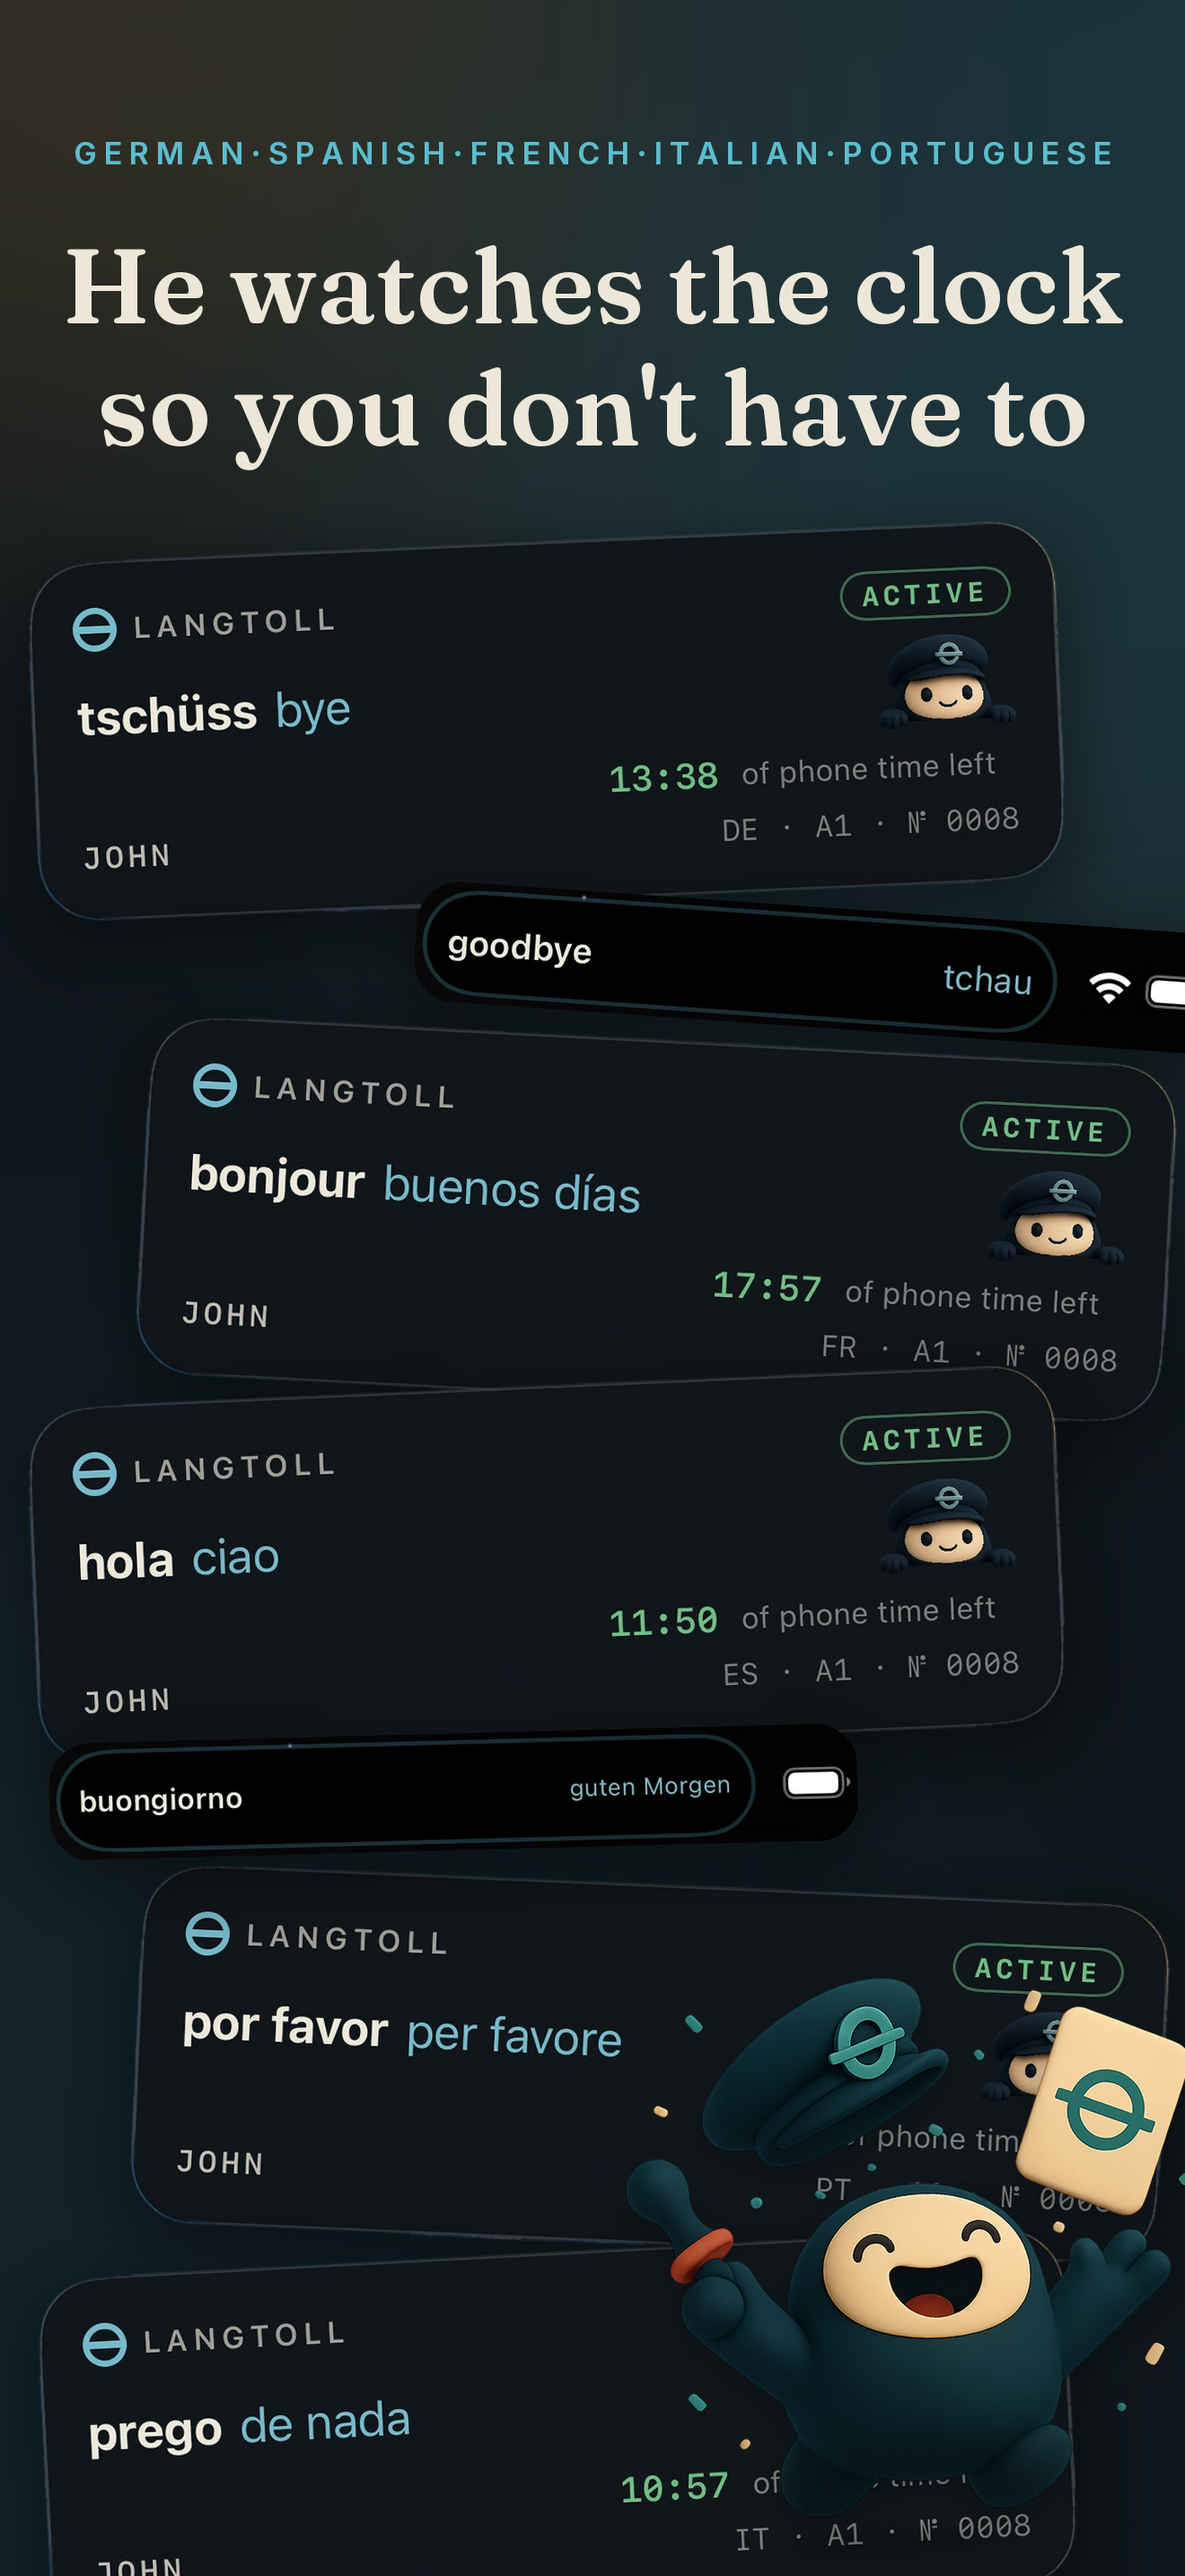
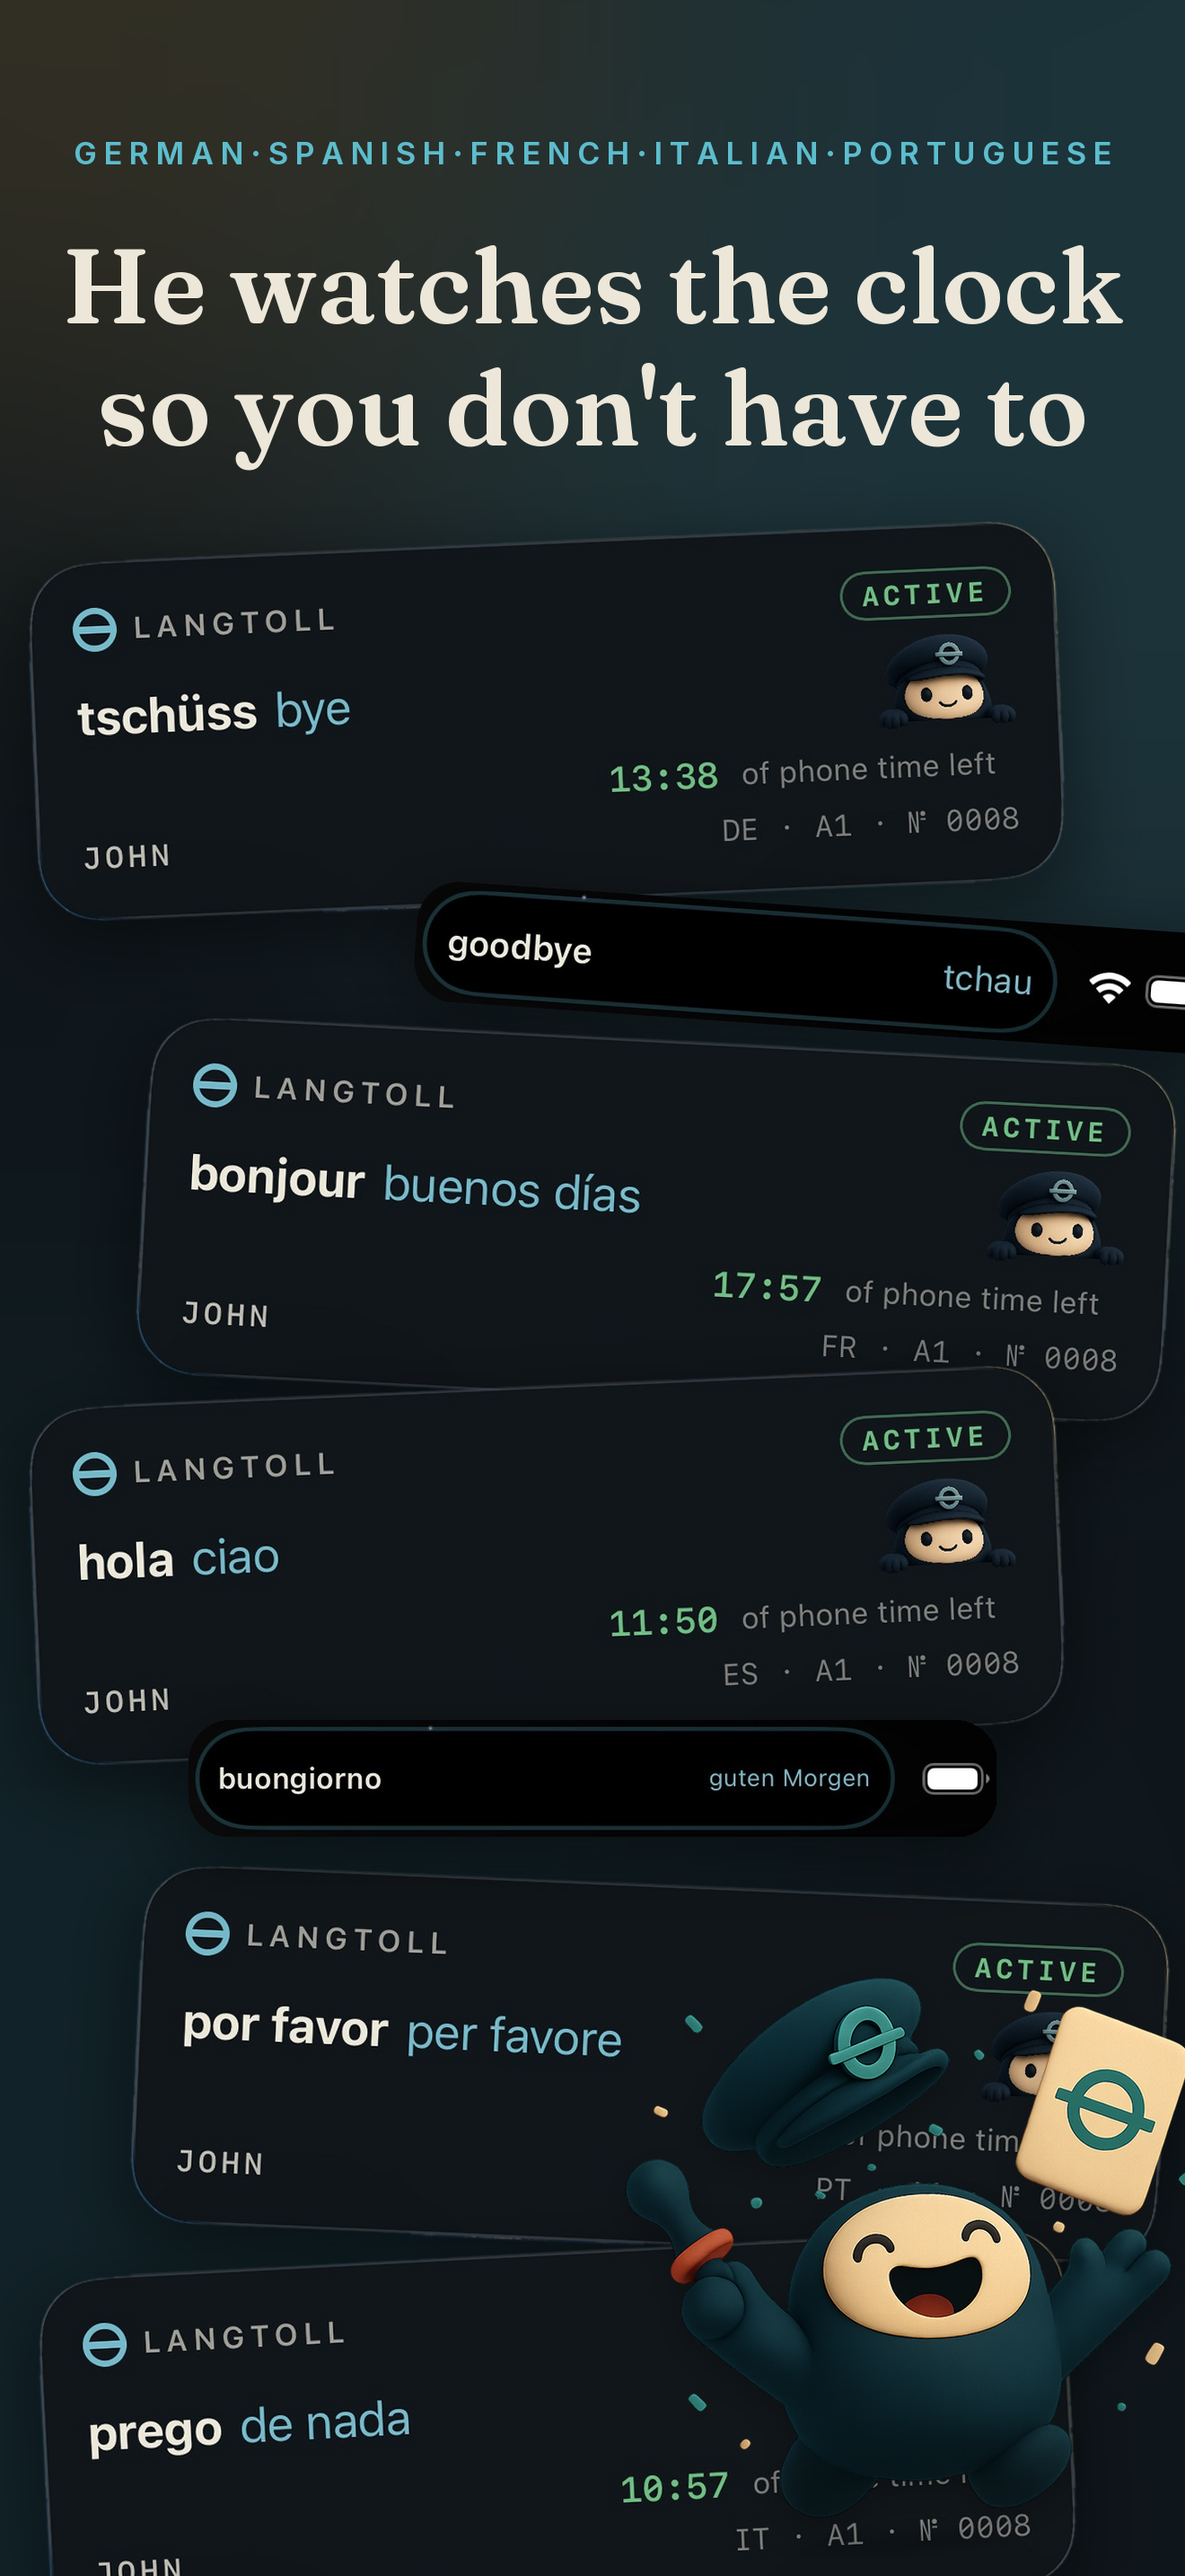
shots: buongiorno island pill dead level and centered — the real thing leads
Zero tilt, horizontally centered: the one straight card in front of the
tilted cascade reads as THE island, the collection at play behind it.

Claude-Session: https://claude.ai/code/session_01WH3gWNvxtpgQbCP3L1S9tL

Changed region(s): [[0.0311, 0.6517, 0.4348, 0.7448], [0.4659, 0.6517, 0.8386, 0.7137]]

diff --git a/langtoll-mobile/marketing/appstore/store_shots.py b/langtoll-mobile/marketing/appstore/store_shots.py
@@ -247,7 +247,7 @@ SHOTS = [
             {"path": "raw/raw_lock_hola_ciao_exact.png", "w": 1150, "tilt": 2.5, "x": -100, "y": 1390},
             {"path": "raw/raw_lock_porfavor_perfavore_exact.png", "w": 1150, "tilt": -2.5, "x": 15, "y": 1945},
             {"path": "raw/raw_lock_prego_denada_exact.png", "w": 1150, "tilt": 3.0, "x": -90, "y": 2350},
-            {"path": "raw/raw_island_buongiorno_full.jpg", "w": 900, "tilt": 1.5, "x": -70, "y": 1795},
+            {"path": "raw/raw_island_buongiorno_full.jpg", "w": 900, "tilt": 0.0, "y": 1795},
         ],
         "tollys": [{"name": "tolly-celebrate", "w": 640, "x": 640, "y": 2120, "tilt": 3.0}],
     },
